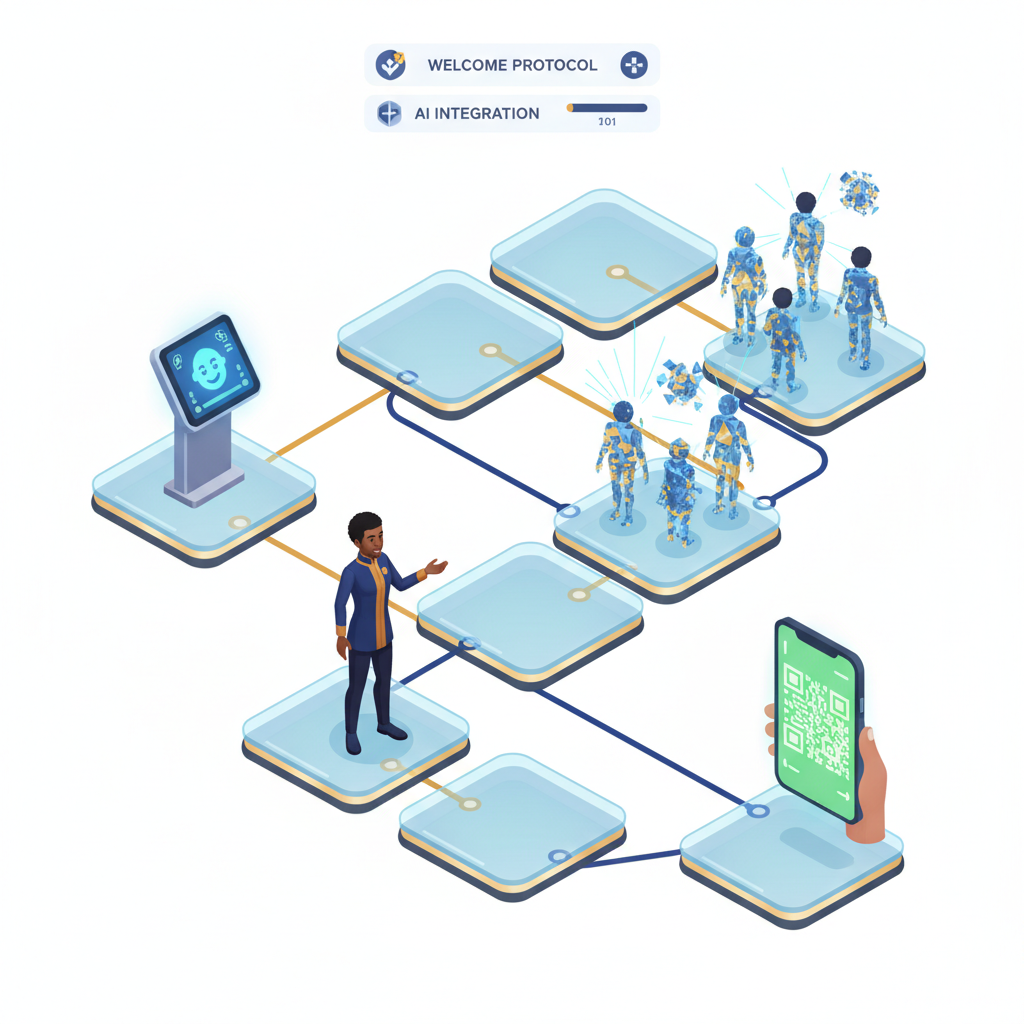
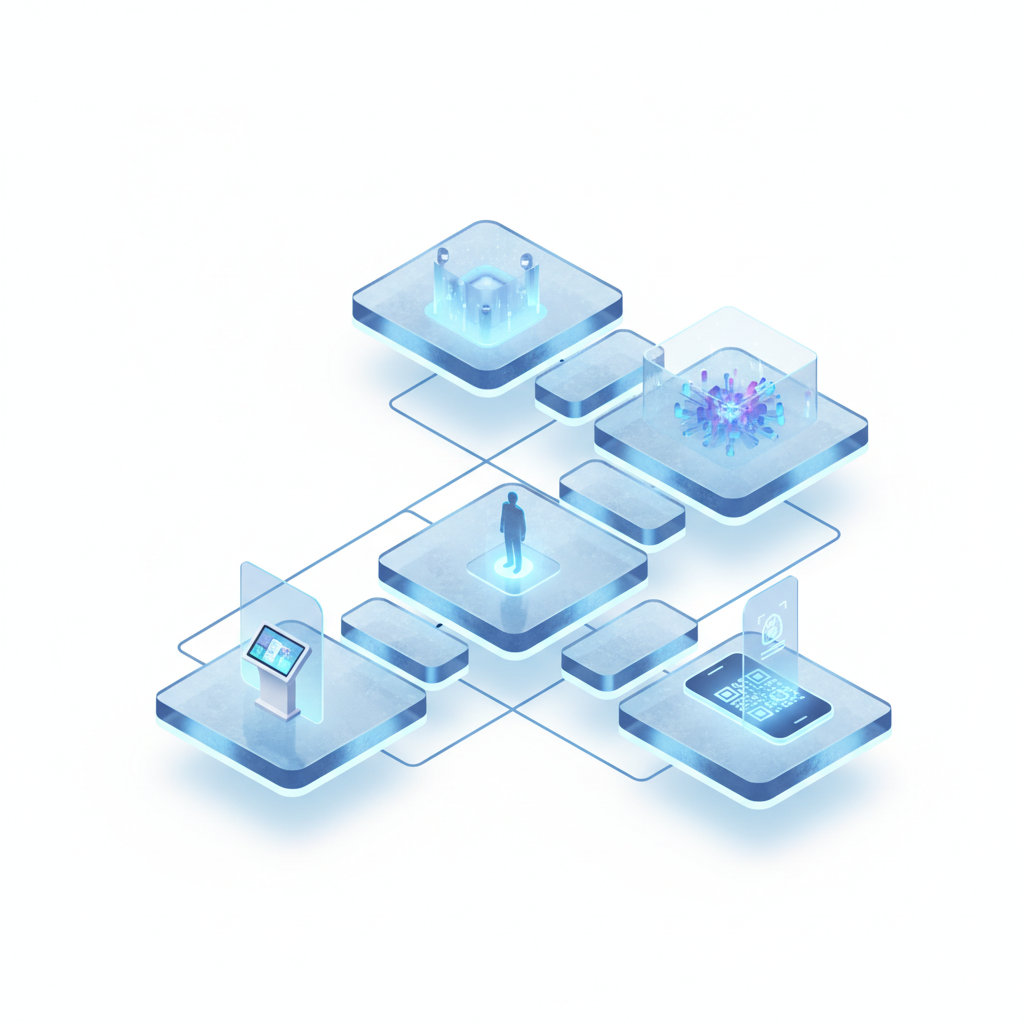
update: Regenerate all 18 hero images with premium architectural style
Replaced Sims 8 game aesthetic with high-end 3D isometric architectural
visualization - warm walnut wood, brushed aluminum, frosted glass,
semi-translucent scale figures, premium corporate studio lighting.

diff --git a/generate_images.py b/generate_images.py
@@ -5,52 +5,50 @@ import json, base64, sys, os, time
 from urllib.request import Request, urlopen
 from urllib.error import HTTPError
 
-API_KEY = "AIzaSyBTygbL5lzZYonciNrRhgDv79NK9yC_qDQ"
+API_KEY = os.environ.get("GEMINI_API_KEY", "AIzaSyA5LvFesI77ctnUAKmvZ7jF-YzxlRKTTT0")
 MODEL = "gemini-2.5-flash-image"
 URL = f"https://generativelanguage.googleapis.com/v1beta/models/{MODEL}:generateContent?key={API_KEY}"
-OUT_DIR = "/home/jsagi/sanhedrin-deck/assets"
+BASE_DIR = "/home/jsagi/sanhedrin-deck/slides"
 
 SLIDES = {
-    "slide-01-hero": 'High-fidelity top-down isometric 3D render, next-gen "Sims 8" stylized realism aesthetic. A futuristic circular museum arena isolated on a pure white background for easy cutout. Expressive, modern "Sims" style visitors are standing around a sleek, glowing circular digital console. Surrounding them are life-sized, high-fidelity holographic projections of historical figures. The space features curved wooden benches and vertical glass touchscreens. Vibrant global illumination, deep blue and warm gold color palette, Unreal Engine 5 life-simulation style, hyper-detailed, clean edges.',
+    "slide-01": "High-end 3D isometric architectural visualization of a futuristic circular museum arena, isolated on a pure white background for easy cutout. In the center, a sleek brushed-aluminum and frosted glass digital console. Surrounding the console are life-sized, high-fidelity glowing blue holographic projections of historical figures. Semi-translucent architectural scale figures of modern visitors and one central facilitator stand around them. Two large vertical frosted-glass 'Sage Screens' flank a massive curved immersive display wall in the background. Warm walnut wood curved benches with integrated screens radiate outward. Premium corporate tech aesthetic, studio lighting, hyper-realistic, 8k.",
 
-    "slide-02-polarization": 'High-fidelity top-down isometric 3D render, next-gen "Sims 8" stylized realism aesthetic. Isolated on a pure white background for easy cutout. Two groups of expressive, modern "Sims" style characters stand on opposite sides of a glowing, jagged red chasm splitting the white floor. Above them, floating 3D digital speech bubbles collide and shatter into glitch effects. Crisp, vibrant lighting, deep blue and glowing red color palette, high-end life-simulation game style, clean edges.',
+    "slide-02": "High-end 3D isometric conceptual illustration, isolated on a pure white background for easy cutout. A sleek, minimalist white platform split by a glowing, jagged red chasm. On opposite sides stand semi-translucent architectural scale figures. Above them, sleek frosted-glass speech bubbles collide and shatter into digital data fragments. Premium corporate tech aesthetic, stark contrast, dramatic but clean studio lighting, hyper-detailed.",
 
-    "slide-03-puzzle": 'High-fidelity top-down isometric 3D render, next-gen "Sims 8" stylized realism aesthetic. Isolated on a pure white background for easy cutout. A complex, glowing 3D jigsaw puzzle assembling itself mid-air over a sleek modern pedestal. Each puzzle piece emits a soft light, containing faint etchings of historical faces and data charts. The pieces lock together into a unified sphere of light. Crisp global illumination, cyan and amber glowing accents, high-end life-simulation UI style, clean cutout.',
+    "slide-03": "High-end 3D isometric conceptual illustration, isolated on a pure white background for easy cutout. A complex, glowing jigsaw puzzle assembling itself mid-air over a sleek matte-black and walnut wood pedestal. The puzzle pieces are made of frosted glass, emitting soft cyan and amber light, containing faint etchings of ancient text and data nodes. Premium museum-tech aesthetic, glassmorphism, crisp shadows, 8k.",
 
-    "slide-04-value-prop": 'High-fidelity top-down isometric 3D infographic, next-gen "Sims 8" stylized realism aesthetic. Isolated on a pure white background for easy cutout. A glowing technological loop: On the left, an expressive modern character inputs data into a sleek console. A light beam branches to the center into 5 floating, glowing nodes representing AI minds deliberating. The beams converge on the right into a brightly illuminated, stylized 3D human brain. Crisp lighting, neon blue and gold data streams, glass textures, game-ready UI aesthetic.',
+    "slide-04": "High-end 3D isometric infographic, isolated on a pure white background for easy cutout. A sleek technological flow: on the left, a minimalist data console. A crisp laser beam flows to the center, branching into 5 floating, frosted-glass geometric nodes representing AI minds. The beams converge on the right into an elegant, glowing wireframe sculpture of a human brain. Premium corporate tech aesthetic, cyan and gold data streams, minimalist.",
 
-    "slide-05-journey": 'High-fidelity top-down isometric 3D render, next-gen "Sims 8" stylized realism aesthetic. Isolated on a pure white background for easy cutout. A path of floating, illuminated glass stepping stones. The stones show sequential steps: a touchscreen kiosk, a friendly human facilitator character, a group of glowing AI avatars, and a glowing QR code on a smartphone. Interconnected laser lines map the journey. Bright, welcoming lighting, deep blue and warm gold accents, clean life-simulation UI design.',
+    "slide-05": "High-end 3D isometric architectural pathway, isolated on a pure white background for easy cutout. A path of floating, illuminated frosted-glass stepping stones. The stones feature sleek, minimalist dioramas: a modern touchscreen kiosk, a subtle human facilitator silhouette, glowing AI data nodes, and a sleek smartphone displaying a QR code. Connected by thin glowing fiber-optic lines. Premium museum-tech aesthetic, clean studio lighting.",
 
-    "slide-06-architecture": 'High-fidelity top-down isometric 3D render, next-gen "Sims 8" stylized realism aesthetic. Isolated on a pure white background for easy cutout. A digital "wardrobe" system. At the base, sleek glowing wireframe mannequins labeled with roles like Judge. Above them float highly detailed, stylized portrait avatars of historical figures inside glass data cards, actively slotting down into the wireframes. Clean, crisp lighting, deep blue and warm gold color palette, modern game UI aesthetic.',
+    "slide-06": "High-end 3D isometric infographic, isolated on a pure white background for easy cutout. A digital architecture matrix. At the base, identical sleek glass pedestals labeled with minimalist typography. Above them float highly detailed, translucent holographic busts of historical figures encased in sleek brushed-metal frames, actively slotting down onto the pedestals. Premium corporate tech aesthetic, glassmorphism, cyan and warm gold lighting.",
 
-    "slide-07-session": 'High-fidelity top-down isometric 3D render, next-gen "Sims 8" stylized realism aesthetic. Isolated on a pure white background for easy cutout. A sleek, interactive white display table. On the table, two glowing holographic 3D models: a modern autonomous vehicle and an ancient pair of brass scales of justice. Beams of data connect them, surrounded by floating game-style text boxes showing ethical questions. Crisp, vibrant lighting, deep blue and warm gold UI accents, hyper-detailed.',
+    "slide-07": "High-end 3D isometric diorama, isolated on a pure white background for easy cutout. A sleek, minimalist white museum display table. On the table, two highly detailed, contrasting 3D models: a modern matte-white autonomous vehicle, and an ancient pair of polished brass scales of justice. Elegant fiber-optic data beams connect them. Floating frosted-glass interface panels display ethical queries. Premium architectural visualization, 8k.",
 
-    "slide-08-dilemma": 'High-fidelity top-down isometric 3D infographic, next-gen "Sims 8" stylized realism aesthetic. Isolated on a pure white background for easy cutout. A glowing, floating timeline. Above the timeline, three distinct, illuminated holographic bubbles float: a modern self-driving car next to an ancient ox, a smartphone with a chat bubble next to a scroll, and a medical DNA helix. Below the timeline, small sleek digital clocks. Bright, clean corporate game-tech aesthetic, deep blue and warm gold.',
+    "slide-08": "High-end 3D isometric infographic, isolated on a pure white background for easy cutout. A sleek, floating frosted-glass timeline bar. Above the timeline, three illuminated glass spheres float, containing minimalist 3D icons: a car and an ox, a smartphone and an ancient scroll, a medical DNA helix. Below, minimalist digital clocks read 02:00, 15:00, 25:00. Premium corporate tech aesthetic, clean lighting, highly professional.",
 
-    "slide-09-modes": 'High-fidelity top-down isometric 3D render, next-gen "Sims 8" stylized realism aesthetic. Isolated on a pure white background for easy cutout. A split-screen architectural diorama. The left side has calm, collaborative blue lighting with expressive student characters sitting peacefully around a glowing table. The right side features dynamic orange lighting with two distinct teams of characters facing each other in a game-show style debate setup. Crisp global illumination, high-end life-simulation graphics, clean cutout edges.',
+    "slide-09": "High-end 3D isometric split-screen architectural diorama, isolated on a pure white background for easy cutout. Left side: a calm, collaborative seminar setup with warm walnut tables, soft blue lighting, and semi-translucent figures studying. Right side: a dynamic, sleek debate podium setup with brushed metal, subtle amber lighting, and figures facing off. Premium museum-tech aesthetic, hyper-realistic materials, studio lighting.",
 
-    "slide-10-space": 'High-fidelity top-down isometric 3D architectural render, next-gen "Sims 8" build-mode aesthetic. Isolated on a pure white background for easy cutout. A wide semi-circle of modern white curved benches with individual glowing touchscreens. A sleek facilitator podium sits in the center. Vertical digital Sage Screens flank a curved immersive projection wall. Vibrant, inviting lighting, deep blue and warm gold color palette, clean modern game-design style.',
+    "slide-10": "High-end 3D isometric architectural visualization of a circular museum room, isolated on a pure white background for easy cutout. A wide semi-circle of modern white and walnut curved benches with sleek glass touchscreens. A minimalist facilitator podium in the center. Tall, vertical frosted-glass 'Sage Screens' flank a massive, curved immersive display wall. High-end interior design, premium lighting, 8k resolution.",
 
-    "slide-11-proof": 'High-fidelity top-down isometric 3D render, next-gen "Sims 8" stylized realism aesthetic. Isolated on a pure white background for easy cutout. On the left, a single glowing ancient Hebrew manuscript transitions into a stylized, high-quality digital hologram of a historical figure. Sweeping lines of light expand outward to the right, forming a network of multiple interconnected holographic figures deliberating together. Crisp lighting, blue to gold gradient, clean cutout.',
+    "slide-11": "High-end 3D isometric conceptual illustration, isolated on a pure white background for easy cutout. On the left, a single glowing ancient scroll transitions into a sleek, volumetric hologram of a historical figure. Elegant, fiber-optic light trails expand outward to the right, forming a network of multiple interconnected holographic pedestals. Premium museum-tech aesthetic, blue to gold gradient, hyper-detailed, minimalist.",
 
-    "slide-12-progress": 'High-fidelity top-down isometric 3D render, next-gen "Sims 8" stylized realism aesthetic. Isolated on a pure white background for easy cutout. A glowing architectural structure. The bottom 70% is solid, sleek, polished white metal and glass. The top 30% consists of glowing blue wireframes and holographic blueprints being actively constructed by digital laser beams representing Agent-to-Agent integration. Bright, inspiring tech-startup vibe, life-simulation build-mode aesthetic.',
+    "slide-12": "High-end 3D isometric architectural metaphor, isolated on a pure white background for easy cutout. A massive, sleek structure. The bottom 70% is built from solid, highly polished white marble and brushed steel. The top 30% transitions into a glowing cyan wireframe hologram, being actively constructed by precise laser beams. Premium corporate tech aesthetic, clean shadows, representing software architecture.",
 
-    "slide-13-competitive": 'High-fidelity top-down isometric 3D render, next-gen "Sims 8" stylized realism aesthetic. Isolated on a pure white background for easy cutout. In the center, a sleek, multifaceted glowing diamond tower projects different colors of light, protected by a glowing digital moat. Around it sit basic, dull gray square boxes representing standard chatbots. Crisp, vibrant lighting, deep blue and warm gold UI palette, clean metaphorical game-art style.',
+    "slide-13": "High-end 3D isometric conceptual illustration, isolated on a pure white background for easy cutout. In the center, an elegant, multifaceted glass diamond tower projects warm internal lighting, surrounded by a subtle glowing ring. Scattered around the perimeter are basic, matte-gray, unlit cubic blocks. Premium corporate tech aesthetic, visual hierarchy, hyper-realistic glassmorphism, 8k.",
 
-    "slide-14-edtech": 'High-fidelity top-down isometric 3D render, next-gen "Sims 8" stylized realism aesthetic. Isolated on a pure white background for easy cutout. Three floating stylized diorama islands connected by glowing data bridges. Top island: a sleek museum dome. Bottom-left: a vibrant modern classroom with smartboards and student characters. Bottom-right: a cozy home desk with a laptop and ring light. Bright, welcoming educational game aesthetic, crisp lighting, easy cutout.',
+    "slide-14": "High-end 3D isometric ecosystem map, isolated on a pure white background for easy cutout. Three sleek, floating minimalist dioramas connected by glowing fiber-optic bridges. Top: a premium museum exhibition dome. Bottom-left: a modern, high-tech academic classroom. Bottom-right: a sleek home office desk. Premium architectural visualization, warm wood and frosted glass materials, clean corporate lighting.",
 
-    "slide-15-roadmap": 'High-fidelity top-down isometric 3D render, next-gen "Sims 8" stylized realism aesthetic. Isolated on a pure white background for easy cutout. A glowing frosted glass staircase winding upward. Step 1: a smartphone with a chat bubble. Step 2: a laptop screen. Step 3: a modern museum kiosk. Step 4 (top): a fully realized, illuminated Sanhedrin circular arena diorama. Bright, uplifting lighting, deep blue and warm gold, clean edges for transparency.',
+    "slide-15": "High-end 3D isometric infographic, isolated on a pure white background for easy cutout. A sleek, upward-winding staircase made of frosted glass and brushed metal. Step 1: a minimalist smartphone. Step 2: a sleek laptop with data charts. Step 3: a premium museum touchscreen kiosk. Step 4 (top): a miniaturized, glowing architectural model of the circular Sanhedrin arena. Premium corporate tech aesthetic, inspiring upward momentum.",
 
-    "slide-16-business": 'High-fidelity top-down isometric 3D render, next-gen "Sims 8" stylized realism aesthetic. Isolated on a pure white background for easy cutout. A sleek, modern technological funnel mechanism. Glowing blue data particles flow into the top. The machine outputs two distinct streams at the bottom: shiny stylized gold coins, and illuminated, holographic academic documents and graphs. Vibrant, clean corporate-game UI illustration, crisp global illumination.',
+    "slide-16": "High-end 3D isometric conceptual illustration, isolated on a pure white background for easy cutout. An elegant, minimalist data funnel made of frosted glass. Glowing cyan data particles flow into the top. The funnel splits the output into two streams at the base: sleek, stylized gold coins, and floating, holographic academic documents. Premium corporate tech aesthetic, hyper-realistic materials, studio lighting.",
 
-    "slide-17-team": 'High-fidelity top-down isometric 3D render, next-gen "Sims 8" stylized realism aesthetic. Isolated on a pure white background for easy cutout. Three solid, glowing pillars made of sleek white marble and metal support a glowing platform. Next to them stands a fourth pillar that is an empty, glowing blue wireframe hologram, representing a missing expert waiting to be filled. Bright, clean architectural game-style graphics, deep blue and warm gold.',
+    "slide-17": "High-end 3D isometric architectural metaphor, isolated on a pure white background for easy cutout. Three solid, premium pillars made of polished white marble and brushed aluminum supporting a sleek platform. Next to them stands a fourth pillar that is an empty, glowing cyan wireframe hologram, representing a missing piece waiting to be filled. Premium corporate tech aesthetic, crisp shadows, minimalist.",
 
-    "slide-18-closing": 'High-fidelity top-down isometric 3D render, next-gen "Sims 8" stylized realism aesthetic. Isolated on a pure white background for easy cutout. Two stylized, expressive hands meeting over a sleek digital pedestal. One hand is slightly translucent, made of warm, ancient glowing light. The other is modern, solid, and reaching out. A brilliant spark of blue and white light illuminates the space between them. Crisp, vibrant lighting, emotional but clean game-art style.',
+    "slide-18": "High-end 3D isometric conceptual illustration, isolated on a pure white background for easy cutout. Two highly realistic, elegant hands meeting over a sleek matte-black pedestal. One hand is slightly translucent, made of warm, amber holographic light (ancient wisdom). The other is a solid, modern human hand. Between their fingers, a brilliant, clean spark of blue and white light. Premium museum-tech aesthetic, emotional but highly professional.",
 }
 
-os.makedirs(OUT_DIR, exist_ok=True)
-
-def generate_image(name, prompt):
+def generate_image(slide_name, prompt):
     payload = json.dumps({
         "contents": [{"parts": [{"text": prompt}]}],
         "generationConfig": {"responseModalities": ["TEXT", "IMAGE"]}
@@ -62,32 +60,34 @@ def generate_image(name, prompt):
         data = json.loads(resp.read())
     except HTTPError as e:
         error_body = e.read().decode()
-        print(f"  FAILED {name}: HTTP {e.code} - {error_body[:200]}", flush=True)
+        print(f"  FAILED {slide_name}: HTTP {e.code} - {error_body[:200]}", flush=True)
         return False
     except Exception as e:
-        print(f"  FAILED {name}: {e}", flush=True)
+        print(f"  FAILED {slide_name}: {e}", flush=True)
         return False
 
     for candidate in data.get("candidates", []):
         fr = candidate.get("finishReason", "")
         if fr == "SAFETY":
-            print(f"  BLOCKED {name}: Safety filter", flush=True)
+            print(f"  BLOCKED {slide_name}: Safety filter", flush=True)
             return False
         if fr == "RECITATION":
-            print(f"  BLOCKED {name}: Recitation filter", flush=True)
+            print(f"  BLOCKED {slide_name}: Recitation filter", flush=True)
             return False
         for part in candidate.get("content", {}).get("parts", []):
             if "inlineData" in part:
                 img_data = base64.b64decode(part["inlineData"]["data"])
                 mime = part["inlineData"].get("mimeType", "image/png")
                 ext = "png" if "png" in mime else "jpg" if "jpeg" in mime or "jpg" in mime else "webp"
-                path = os.path.join(OUT_DIR, f"{name}.{ext}")
+                out_dir = os.path.join(BASE_DIR, slide_name)
+                os.makedirs(out_dir, exist_ok=True)
+                path = os.path.join(out_dir, f"hero.{ext}")
                 with open(path, "wb") as f:
                     f.write(img_data)
-                print(f"  OK {name}.{ext} ({len(img_data)//1024}KB)", flush=True)
-                return True
+                print(f"  OK {slide_name}/hero.{ext} ({len(img_data)//1024}KB)", flush=True)
+                return path
 
-    print(f"  FAILED {name}: No image in response", flush=True)
+    print(f"  FAILED {slide_name}: No image in response", flush=True)
     return False
 
 if __name__ == "__main__":
@@ -97,7 +97,8 @@ if __name__ == "__main__":
 
     for i, (name, prompt) in enumerate(SLIDES.items(), 1):
         print(f"[{i}/{total}] Generating {name}...", flush=True)
-        if generate_image(name, prompt):
+        result = generate_image(name, prompt)
+        if result:
             success += 1
         else:
             failed.append(name)
